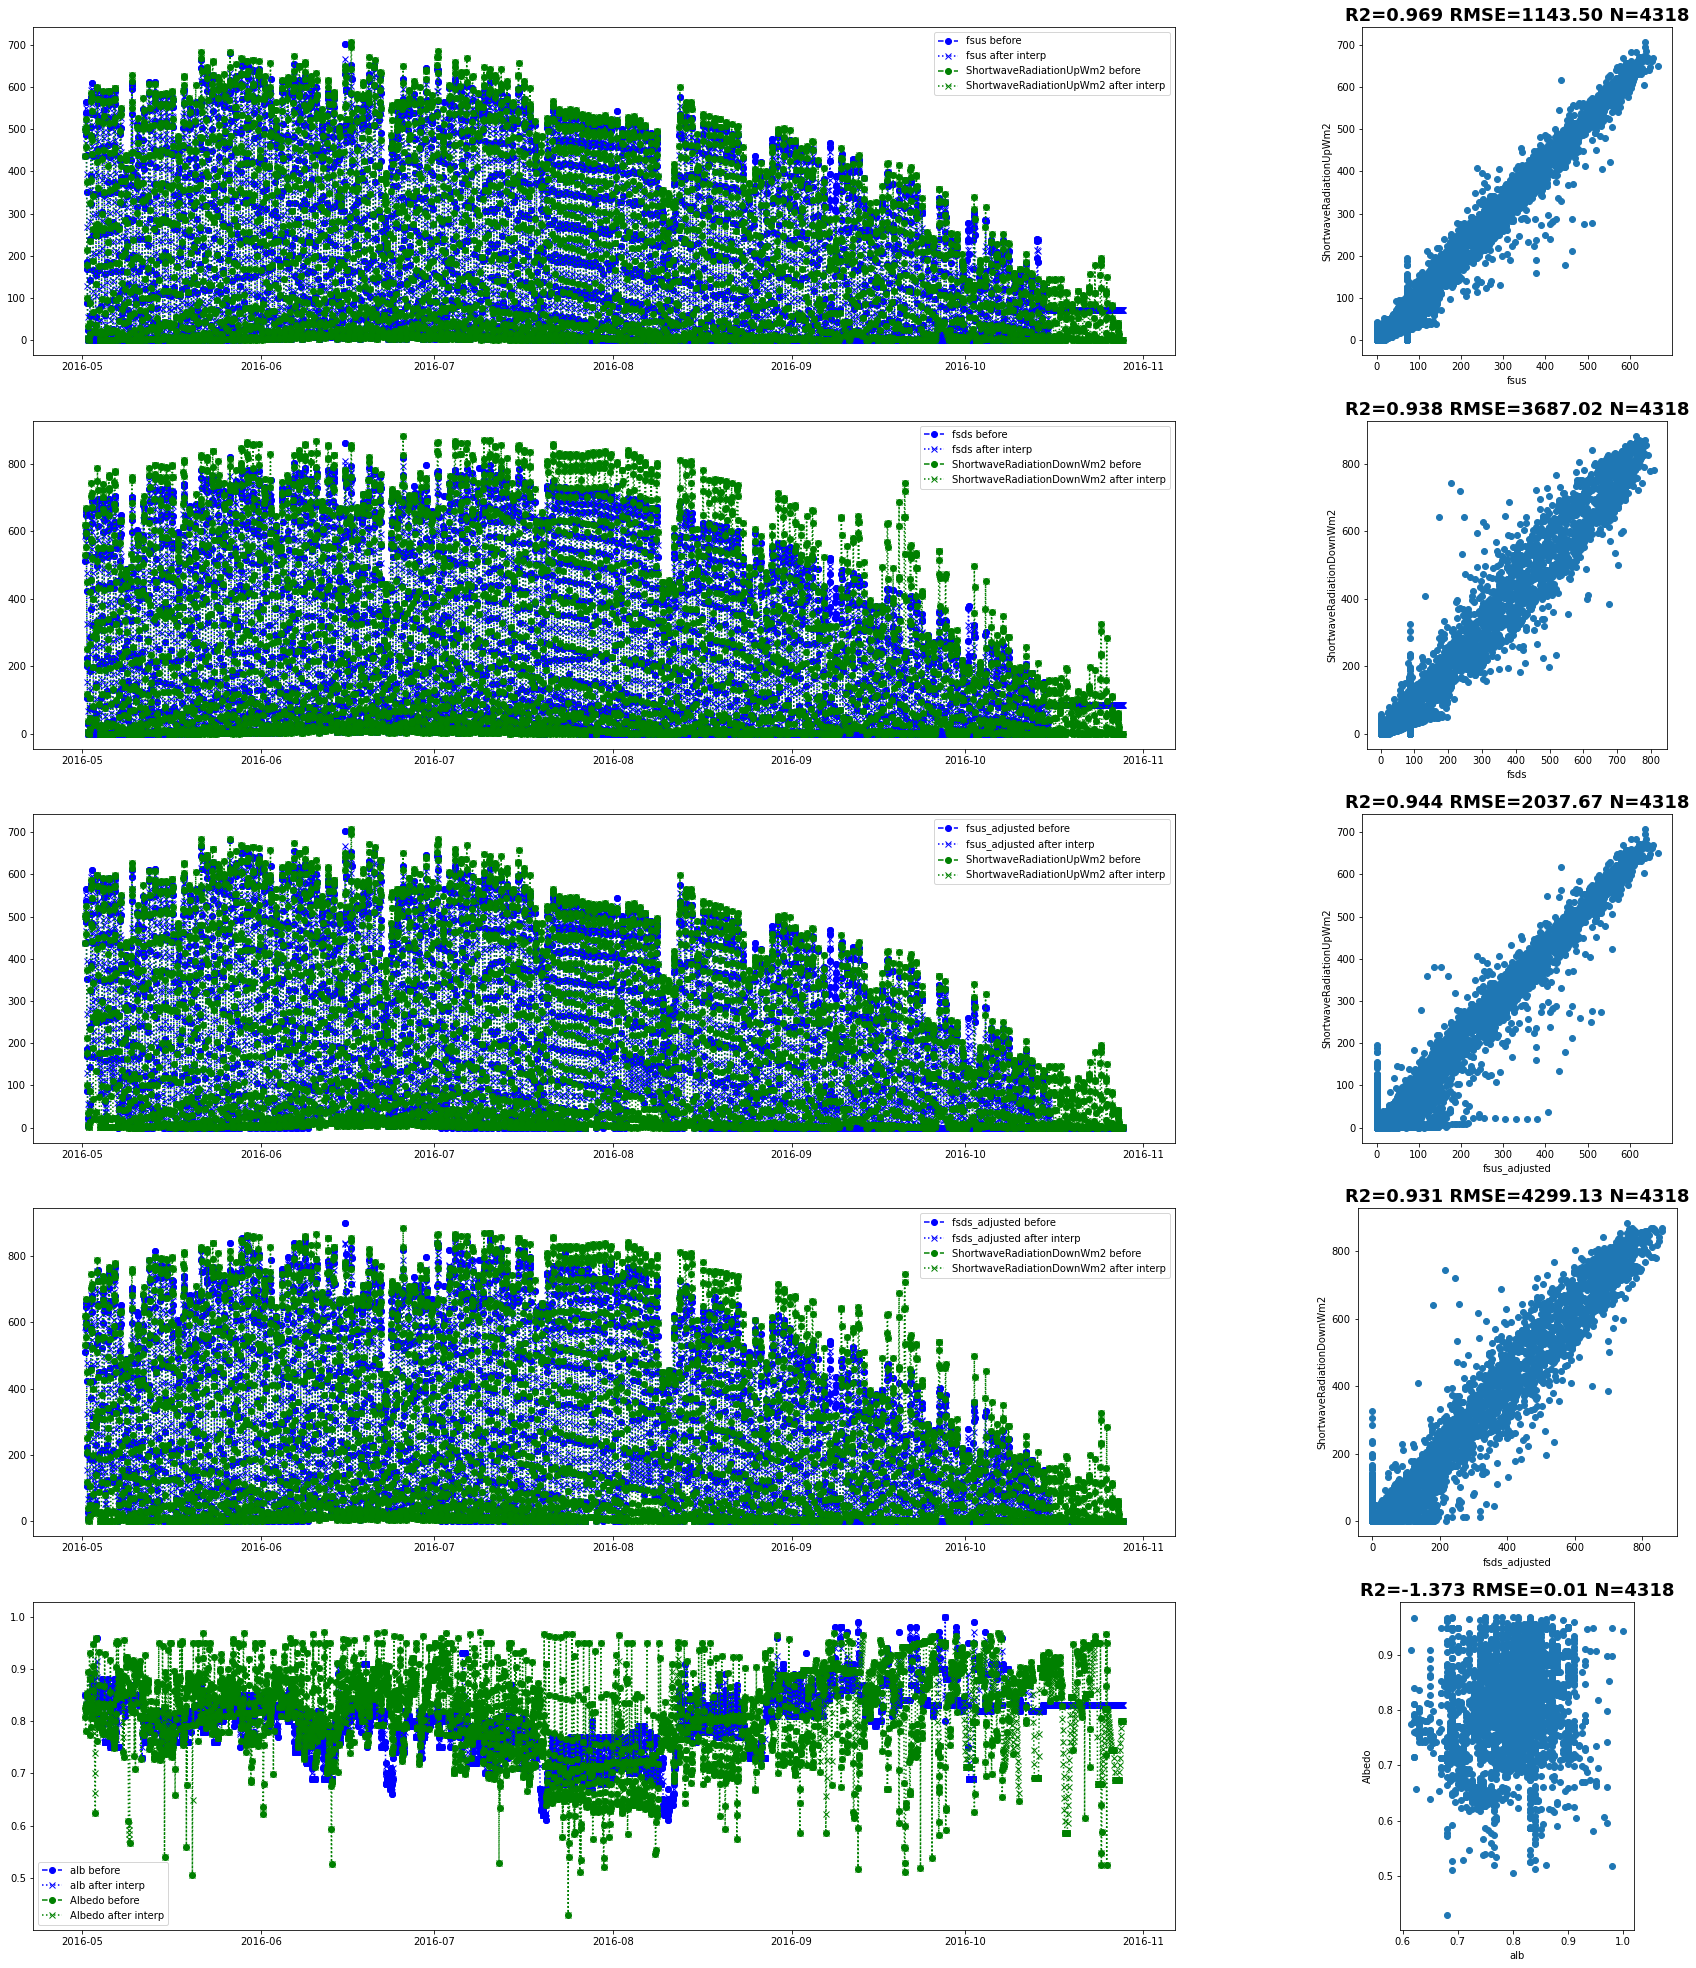
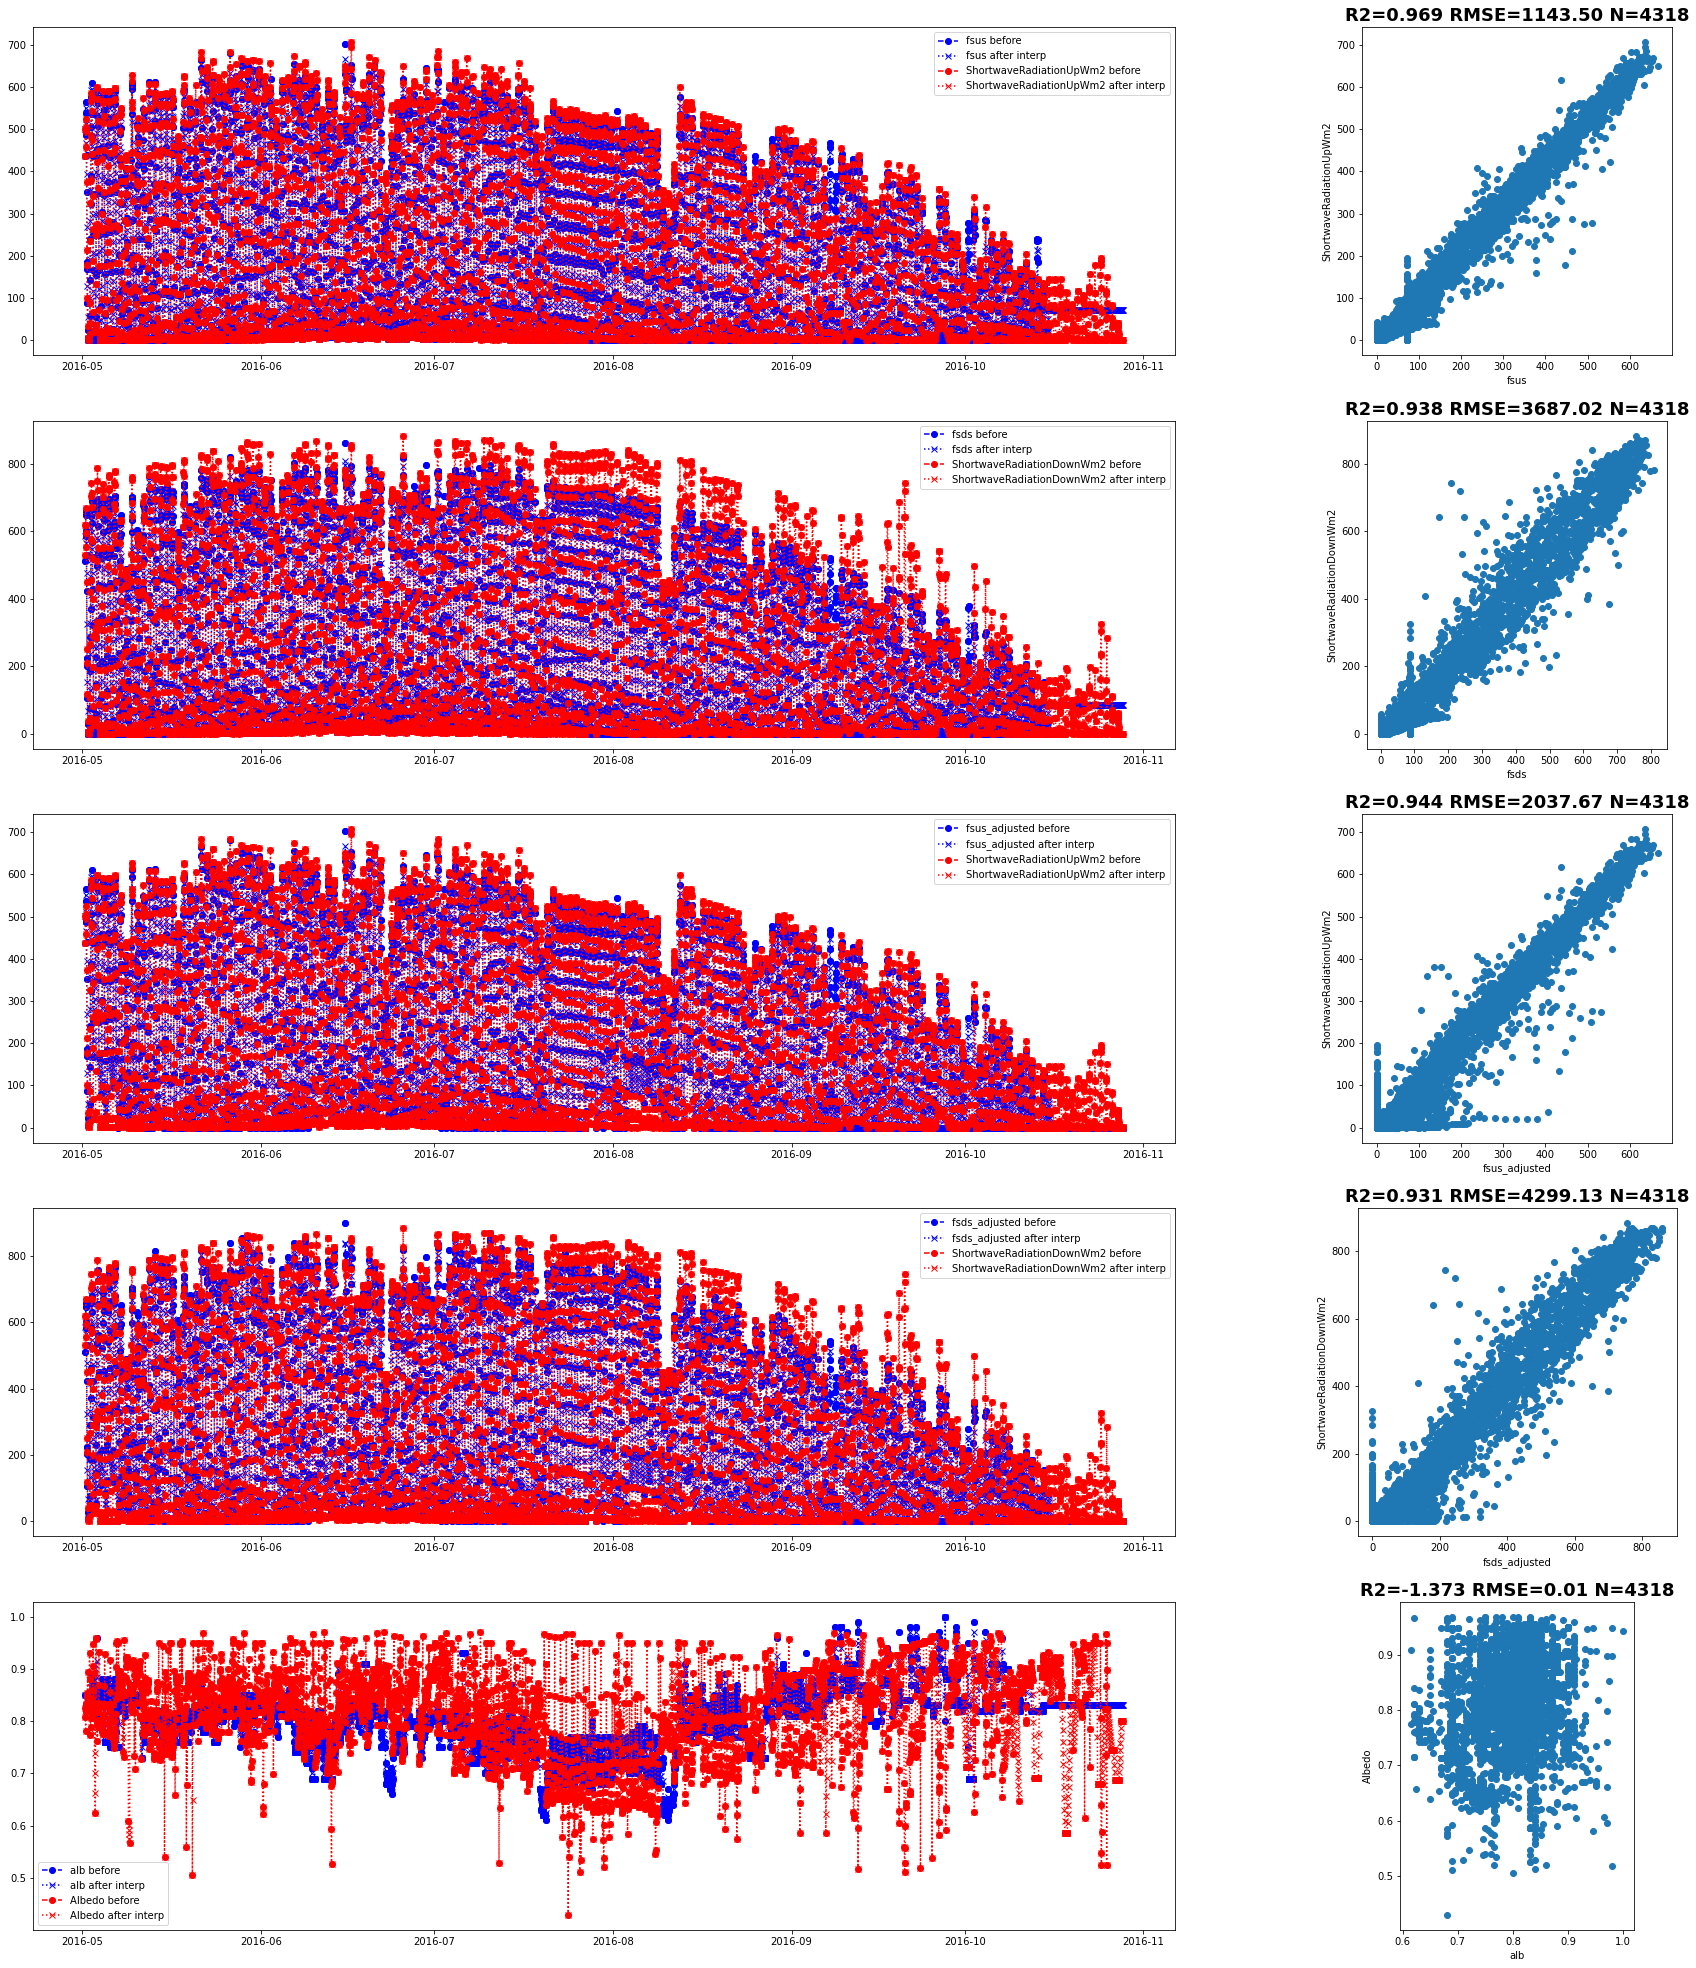
Update plots
Update plots

diff --git a/GC-Net-evaluation.py b/GC-Net-evaluation.py
@@ -46,34 +46,37 @@ df_interpol = df_all.interpolate(method='time')
 df_interpol = df_interpol[~df_interpol.index.duplicated(keep='first')].resample('h').asfreq()
 
 
-#%% 
 varname1 =  ['fsus', 'fsds', 'fsus_adjusted','fsds_adjusted','alb']
 varname2 =  ['ShortwaveRadiationUpWm2', 'ShortwaveRadiationDownWm2',
              'ShortwaveRadiationUpWm2', 'ShortwaveRadiationDownWm2','Albedo']
 
-gnl.plot_comp(df_all, df_interpol, varname1, varname2, 'dye-2_SWrad')
+gnl.plot_comp(df_all, df_interpol, varname1, varname2, station+'_SWrad')
 
 varname1 =  ['ta_tc1','ta_tc2','ta_cs1','ta_cs2']
 varname2 =  ['AirTemperatureC', 'AirTemperatureC', 'AirTemperatureC', 'AirTemperatureC']
-gnl.plot_comp(df_all, df_interpol, varname1, varname2, 'dye-2_temp')
+gnl.plot_comp(df_all, df_interpol, varname1, varname2, station+'_temp')
 
 varname1 =  ['rh1','rh2','ps']
 varname2 =  ['RelativeHumidity', 'RelativeHumidity', 'AirPressurehPa']
-gnl.plot_comp(df_all, df_interpol, varname1, varname2, 'dye-2_rh_pres')
+gnl.plot_comp(df_all, df_interpol, varname1, varname2, station+'_rh_pres')
 
 varname1 =  ['wspd1','wspd2','wdir1','wdir2']
 varname2 =  [ 'WindSpeedms', 'WindSpeedms','WindDirectiond','WindDirectiond']
-gnl.plot_comp(df_all, df_interpol, varname1, varname2, 'dye-2_wind')
+gnl.plot_comp(df_all, df_interpol, varname1, varname2, station+'_wind')
 
 
 #%% Comparison at EastGRIP
 # Loading gc-net data
-path_gc = '../AWS_Processing/Input/GCnet/20190501_jaws/'
-data_GCnet = readtable(".\Input\GCnet\Additional files\CR1000_EGRIP_GC-Net_Table046.dat", opts);
-
+path_gc = 'Input/CR1000_EGRIP_GC-Net_Table046.dat'
 station = 'EGRIP'
-station_id = 8
+station_id = ''
+df_gc = pd.read_csv(path_gc, skiprows=[0,2,3,4])
 
+df_gc=df_gc.reset_index()
+data_GCnet.time = datenum(data_GCnet.TIMESTAMP,'yyyy-mm-dd HH:MM:SS');
+data_GCnet.AirPressurehPa = data_GCnet.pressure_Avg+300;
+data_GCnet.AirPressurehPa(data_GCnet.AirPressurehPa<690) = NaN;
+    
 filename = path_gc + str(station_id).zfill(2) + 'c.dat_Req1957.nc'
 ds = xr.open_dataset(filename)
 df_gc = ds.to_dataframe()

diff --git a/gcnet_lib.py b/gcnet_lib.py
@@ -52,9 +52,9 @@ def plot_comp(df_all, df_interpol, varname1, varname2, figure_name):
         ax[i, j].plot(df_interpol.index, df_interpol[varname1[i]],
                       'bx:',label= varname1[i] + ' after interp')
         ax[i, j].plot(df_all.index, df_all[varname2[i]],
-                      'go--',label=varname2[i] + ' before')
+                      'ro--',label=varname2[i] + ' before')
         ax[i, j].plot(df_interpol.index, df_interpol[varname2[i]],
-                      'gx:',label=varname2[i] + ' after interp')
+                      'rx:',label=varname2[i] + ' after interp')
         ax[i, j].legend()
         
         x=df_interpol[varname1[i]].values
